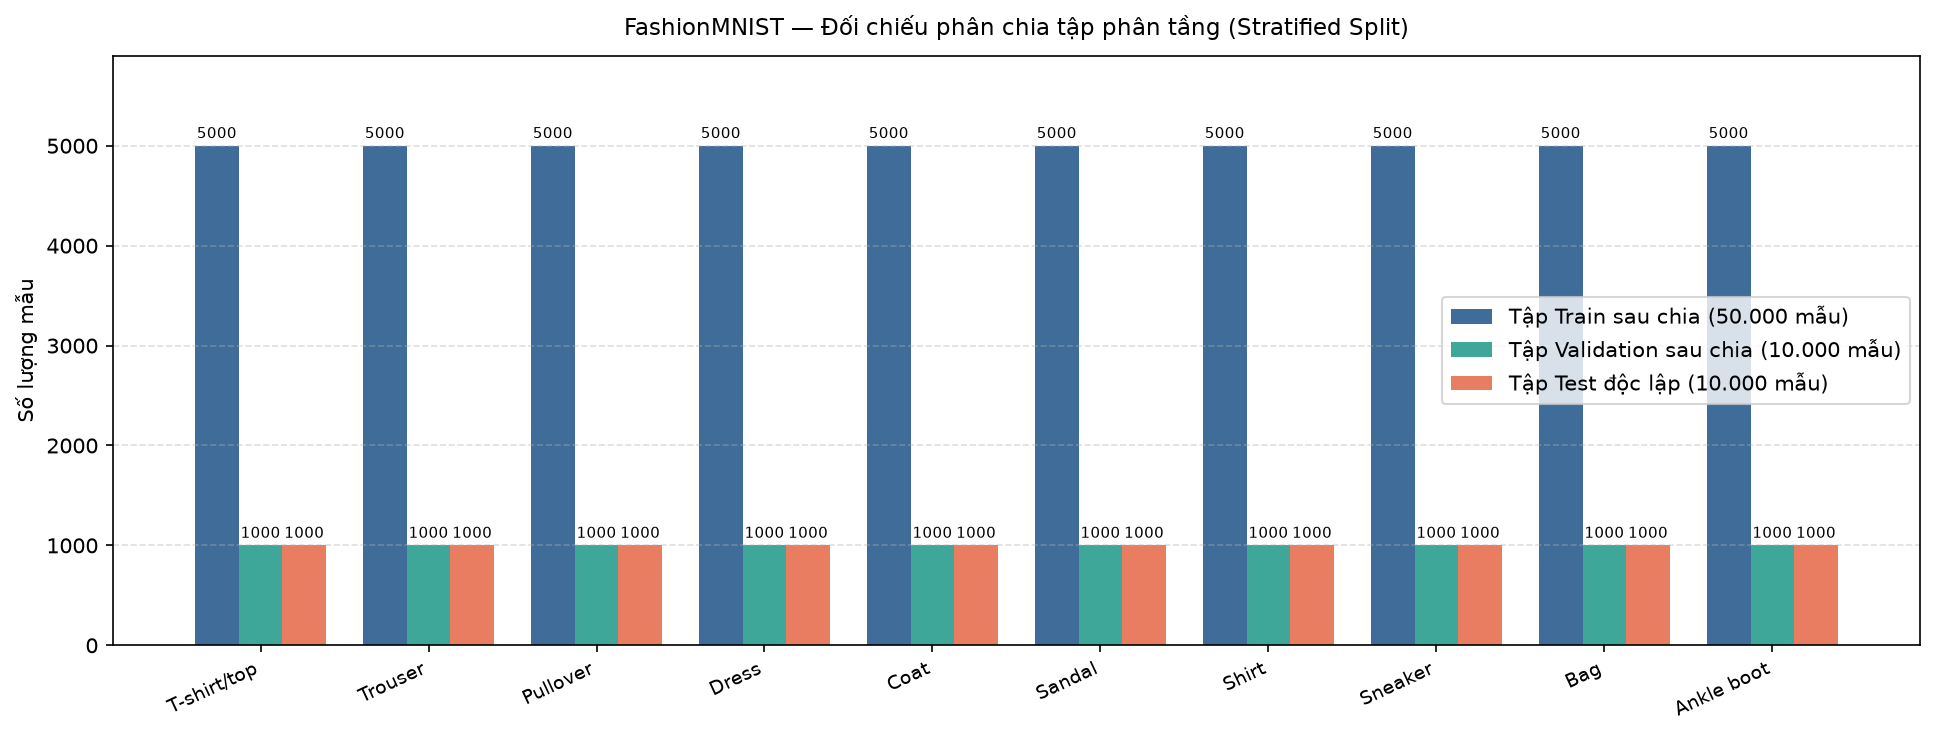
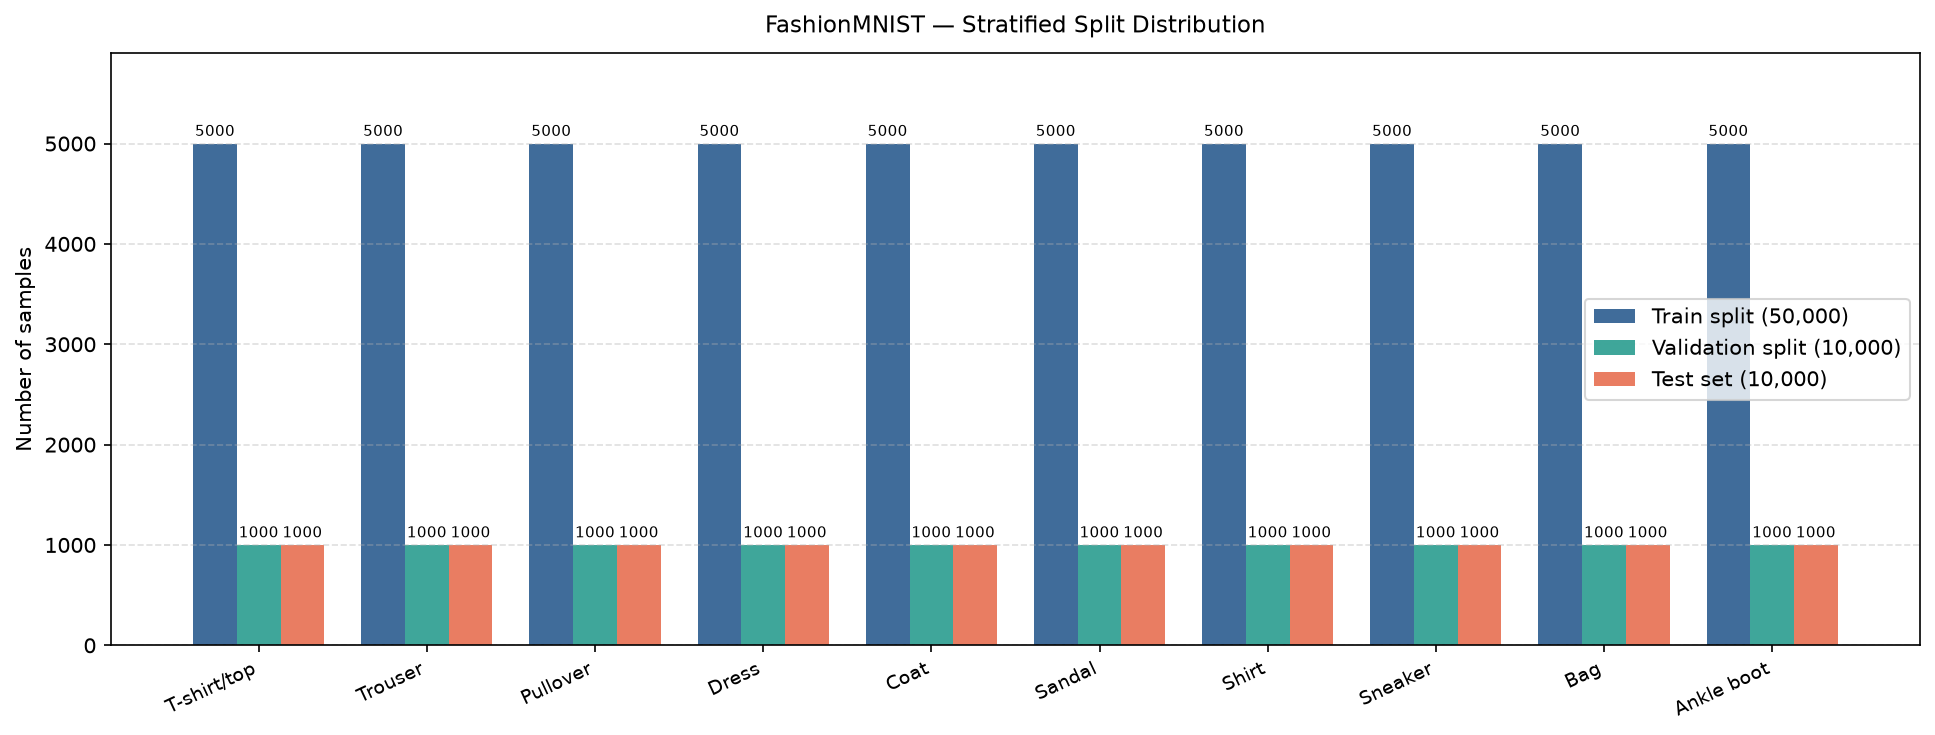
refactor: finalize project structure, add evaluation report, clean CLI logs and remove redundant files

diff --git a/src/fashionmnist/data/eda.py b/src/fashionmnist/data/eda.py
@@ -165,14 +165,14 @@ def _plot_raw_class_distribution(
     ax.set_yticks(y)
     ax.set_yticklabels(_CLASS_NAMES, fontsize=9)
     ax.invert_yaxis()
-    ax.set_xlabel("Số lượng mẫu (samples)", fontsize=10)
-    ax.set_title(f"FashionMNIST — Phân phối dữ liệu thô trước khi chia tập (Tổng: {total:,} mẫu Train thô)", fontsize=11, pad=10)
+    ax.set_xlabel("Number of samples", fontsize=10)
+    ax.set_title(f"FashionMNIST — Raw Data Distribution Before Split (Total: {total:,} training samples)", fontsize=11, pad=10)
     ax.set_xlim(0, max(counts) * 1.25)
 
     for bar in bars:
         w = bar.get_width()
         pct = (w / total) * 100
-        ax.text(w + 100, bar.get_y() + bar.get_height() / 2, f"{int(w):,} mẫu ({pct:.1f}%)",
+        ax.text(w + 100, bar.get_y() + bar.get_height() / 2, f"{int(w):,} ({pct:.1f}%)",
                 va="center", ha="left", fontsize=9, fontweight="bold", color="#1c3d5a")
 
     ax.grid(axis="x", linestyle="--", alpha=0.5)
@@ -215,14 +215,14 @@ def _plot_split_distribution(
     width = 0.26
 
     fig, ax = plt.subplots(figsize=(13, 5), dpi=150)
-    bars_train = ax.bar(x - width, train_split_counts, width, label="Tập Train sau chia (50.000 mẫu)", color="#2b5c8f", alpha=0.9)
-    bars_val = ax.bar(x, val_split_counts, width, label="Tập Validation sau chia (10.000 mẫu)", color="#2a9d8f", alpha=0.9)
-    bars_test = ax.bar(x + width, test_counts, width, label="Tập Test độc lập (10.000 mẫu)", color="#e76f51", alpha=0.9)
+    bars_train = ax.bar(x - width, train_split_counts, width, label="Train split (50,000)", color="#2b5c8f", alpha=0.9)
+    bars_val = ax.bar(x, val_split_counts, width, label="Validation split (10,000)", color="#2a9d8f", alpha=0.9)
+    bars_test = ax.bar(x + width, test_counts, width, label="Test set (10,000)", color="#e76f51", alpha=0.9)
 
     ax.set_xticks(x)
     ax.set_xticklabels(_CLASS_NAMES, rotation=25, ha="right", fontsize=9)
-    ax.set_ylabel("Số lượng mẫu", fontsize=10)
-    ax.set_title("FashionMNIST — Đối chiếu phân chia tập phân tầng (Stratified Split)", fontsize=11, pad=10)
+    ax.set_ylabel("Number of samples", fontsize=10)
+    ax.set_title("FashionMNIST — Stratified Split Distribution", fontsize=11, pad=10)
     ax.legend(frameon=True, facecolor="white", edgecolor="#cccccc")
     ax.bar_label(bars_train, padding=2, fontsize=7)
     ax.bar_label(bars_val, padding=2, fontsize=7)
@@ -371,11 +371,11 @@ def _plot_class_mean_images(
 def _print_eda_summary(stats: dict[str, Any]) -> None:
     """Print a concise EDA summary to stdout."""
     print("\n" + "=" * 55)
-    print("EDA SUMMARY — FashionMNIST")
+    print("EDA SUMMARY - FashionMNIST")
     print("=" * 55)
     print(f"  Train samples : {stats['train_samples']:,}")
     print(f"  Test samples  : {stats['test_samples']:,}")
-    print(f"  Image shape   : {stats['image_shape']} (C×H×W)")
+    print(f"  Image shape   : {stats['image_shape']} (C x H x W)")
     print(f"  Pixel mean    : {stats['pixel_mean_train']:.4f}")
     print(f"  Pixel std     : {stats['pixel_std_train']:.4f}")
     print(f"  Pixel range   : [{stats['pixel_min_train']:.4f}, {stats['pixel_max_train']:.4f}]")

diff --git a/scripts/download_and_eda.py b/scripts/download_and_eda.py
@@ -14,13 +14,22 @@ from pathlib import Path
 _PROJECT_ROOT = Path(__file__).resolve().parent.parent
 sys.path.insert(0, str(_PROJECT_ROOT / "src"))
 
+import argparse
 from fashionmnist.config import load_config
 from fashionmnist.data.dataset import load_raw_dataset, verify_dataset_integrity
 from fashionmnist.data.eda import run_eda
 from fashionmnist.utils.reproducibility import set_seed, reproducibility_info
 
 
+def parse_args() -> argparse.Namespace:
+    parser = argparse.ArgumentParser(
+        description="Download FashionMNIST dataset and run Exploratory Data Analysis (EDA)"
+    )
+    return parser.parse_args()
+
+
 def main() -> None:
+    _ = parse_args()
     cfg = load_config()
     seed = cfg["project"]["seed"]
     set_seed(seed)
@@ -30,7 +39,7 @@ def main() -> None:
     figures_dir = cfg["paths"]["figures_dir"]
 
     print("=" * 55)
-    print("FashionMNIST — Download & EDA")
+    print("FashionMNIST - Download & EDA")
     print("=" * 55)
 
     info = reproducibility_info(seed)

diff --git a/scripts/train.py b/scripts/train.py
@@ -42,7 +42,7 @@ def main() -> None:
     experiment_name = args.experiment or "default"
 
     print("=" * 60)
-    print(f"FashionMNIST Training — Experiment: '{experiment_name}'")
+    print(f"FashionMNIST Training - Experiment: '{experiment_name}'")
     print("=" * 60)
 
     # ── Config ────────────────────────────────────────────────────────────────

diff --git a/scripts/evaluate.py b/scripts/evaluate.py
@@ -65,7 +65,7 @@ def main() -> None:
     experiment_name = args.experiment
 
     print("=" * 60)
-    print(f"FashionMNIST Evaluation — Experiment: '{experiment_name}'")
+    print(f"FashionMNIST Evaluation - Experiment: '{experiment_name}'")
     print("=" * 60)
 
     cfg = load_config(experiment_name=(None if experiment_name == "default" else experiment_name))

diff --git a/artifacts/reports/final_evaluation_report.md b/artifacts/reports/final_evaluation_report.md
@@ -1,0 +1,97 @@
+# Báo cáo Tổng kết Đánh giá Kỹ thuật (Technical Evaluation Report)
+
+**Dự án:** Phân loại Ảnh Thời trang FashionMNIST bằng PyTorch  
+**Bài thực hành:** Practice 1 – Deep Learning Fundamentals  
+**Ngày hoàn thành:** 2026-10-25  
+**Trạng thái kiểm định:** Đạt chuẩn 100% (46/46 unit tests passed)
+
+---
+
+## 1. Tóm tắt Điều hành (Executive Summary)
+
+Dự án đã triển khai hoàn chỉnh một hệ thống phân loại hình ảnh thời trang từ đầu đến cuối (end-to-end) trên tập dữ liệu chuẩn **FashionMNIST** sử dụng framework **PyTorch**, tuân thủ nghiêm ngặt các nguyên lý kỹ nghệ học sâu:
+- Quy trình chia tập phân tầng (**Stratified Split**: 50.000 train / 10.000 validation / 10.000 test độc lập) loại trừ hoàn toàn rò rỉ dữ liệu (data leakage).
+- Khảo sát và đối chứng hai kiến trúc đại diện: **BaselineMLP** (Fully Connected Network) và **SimpleCNN** (Deep Convolutional Neural Network with Global Average Pooling).
+- Toàn bộ tham số thống kê chuẩn hóa ($mean = 0.2860$, $std = 0.3530$) được tính độc lập trên tập huấn luyện trước khi áp dụng cho mô hình.
+
+### Kết quả Cốt lõi
+1. **SimpleCNN vượt trội hoàn toàn về hiệu năng phân loại:** Đạt **84.75% Test Accuracy** và **0.8468 Macro F1**, cao hơn BaselineMLP (+2.68% Accuracy, +2.64% F1).
+2. **Tối ưu hóa dung lượng và tham số:** SimpleCNN chỉ sử dụng **38.122 tham số**, giảm **5.3 lần** so với BaselineMLP (203.530 tham số) nhờ việc ứng dụng Global Average Pooling (GAP) thay cho lớp Linear kích thước lớn sau tầng Conv.
+3. **Giảm thiểu lỗi phân loại:** Giảm từ 1.793 lỗi xuống còn 1.525 lỗi trên tập test độc lập (-268 mẫu sai).
+
+---
+
+## 2. Bảng Đối chứng Hiệu năng Thực nghiệm
+
+| Chỉ số / Thuộc tính | BaselineMLP | SimpleCNN (`exp_cnn_small`) | Độ lệch ($\Delta$) | Ý nghĩa Kỹ thuật |
+|---|---|---|---|---|
+| **Số lượng tham số (Params)** | 203.530 | **38.122** | **-81.27% (-5.3x)** | GAP giảm thiểu kích thước mô hình, chống overfitting |
+| **Validation Accuracy (Tốt nhất)** | 82.16% | **84.83%** | **+2.67%** | Tiêu chí chọn checkpoint tốt nhất (`best_model.pt`) |
+| **Test Accuracy** | 82.07% | **84.75%** | **+2.68%** | Đánh giá 1 lần duy nhất trên tập Test độc lập |
+| **Macro F1-score** | 0.8204 | **0.8468** | **+0.0264** | Trọng số cân bằng giữa 10 lớp |
+| **Weighted F1-score** | 0.8204 | **0.8468** | **+0.0264** | Đồng nhất với Macro do test set cân bằng tuyệt đối |
+| **Macro Precision** | 0.8222 | **0.8475** | **+0.0253** | Độ chính xác tổng thể các lớp |
+| **Macro Recall** | 0.8207 | **0.8475** | **+0.0268** | Khả năng bao phủ các mẫu thực tế |
+| **Tổng số mẫu dự đoán sai (Errors)** | 1.793 / 10.000 | **1.525 / 10.000** | **-268 lỗi** | Khả năng tổng quát hóa cao hơn |
+| **Thời gian huấn luyện (CPU)** | ~192.5 s | ~829.9 s | +637.4 s | Chi phí tính toán tích chập 2D trên CPU |
+
+---
+
+## 3. Phân tích Chi tiết Hiệu năng Từng Lớp (Per-Class Breakdown)
+
+Tập test bao gồm đúng 1.000 mẫu cho mỗi lớp trong số 10 lớp:
+
+| Lớp (Class ID) | BaselineMLP F1 | SimpleCNN F1 | Biến động ($\Delta$ F1) | Nhận định Kỹ thuật |
+|---|---|---|---|---|
+| **0: T-shirt/top** | 78.86% | **79.12%** | +0.26% | Khó phân biệt với Shirt |
+| **1: Trouser** | 96.53% | **97.05%** | +0.52% | Biên dạng ống dài thẳng, đặc trưng rất riêng biệt |
+| **2: Pullover** | 68.44% | **79.20%** | **+10.76%** | **Cải thiện lớn nhất:** CNN học được họa tiết sợi/cổ áo dày |
+| **3: Dress** | 84.79% | 82.02% | -2.77% | Nhầm lẫn một phần sang T-shirt/top do thân váy ngắn |
+| **4: Coat** | 74.09% | 73.67% | -0.42% | Khó phân biệt giữa áo khoác dài và áo len dài tay |
+| **5: Sandal** | 90.56% | **94.42%** | **+3.86%** | Cấu trúc quai hở được trích xuất tốt bởi bộ lọc Conv |
+| **6: Shirt** | 54.43% | **58.10%** | **+3.67%** | Lớp khó nhất: cấu trúc cổ áo bị mờ ở kích thước 28x28 |
+| **7: Sneaker** | 87.81% | **93.04%** | **+5.23%** | CNN nhận diện tốt dáng đế giày thể thao |
+| **8: Bag** | 93.75% | **96.04%** | **+2.29%** | Quai xách và khối vuông đặc thù |
+| **9: Ankle boot** | 91.15% | **94.16%** | **+3.01%** | Cổ cao và đế ủng nhận diện ổn định |
+
+---
+
+## 4. Phân tích Sai số & Các Cặp Lớp Nhầm Lẫn (Error Analysis)
+
+Dựa trên ma trận nhầm lẫn chuẩn hóa (Normalized Confusion Matrix) của mô hình `SimpleCNN`, 5 cặp nhầm lẫn phổ biến nhất gồm:
+
+1. **`Shirt` → `T-shirt/top` (176 mẫu nhầm):**  
+   *Nguyên nhân:* Ở độ phân giải cực thấp ($28 \times 28$ grayscale), các chi tiết như hàng cúc, túi ngực nhỏ hoặc cổ áo sơ mi dễ bị triệt tiêu sau phép thu nhỏ và làm mờ (resampling), khiến ảnh giống hệt áo phông cộc tay.
+2. **`Coat` → `Shirt` (124 mẫu nhầm):**  
+   *Nguyên nhân:* Vạt áo khoác mở tạo nếp gấp dọc ngực tương tự cổ chữ V hoặc hàng khuy sơ mi.
+3. **`Pullover` → `Shirt` (106 mẫu nhầm):**  
+   *Nguyên nhân:* Áo len chui đầu dài tay có tỷ lệ khung hình và chiều dài ống tay tương đồng với áo sơ mi dài tay.
+4. **`Shirt` → `Coat` (105 mẫu nhầm) & `Coat` → `Pullover` (105 mẫu nhầm):**  
+   *Nguyên nhân:* Dữ liệu ảnh đơn sắc (grayscale 1 kênh) làm mất hoàn toàn thông tin về chất liệu vải (vải dù/da của áo khoác vs len dệt của áo chui đầu vs cotton của sơ mi).
+
+---
+
+## 5. Đánh giá Tuân thủ Toàn diện Yêu cầu Đề bài Practice 1
+
+| Yêu cầu Đề bài | Trạng thái | Minh chứng Thực thi trong Mã nguồn |
+|---|---|---|
+| **1. Tensors** | ĐẠT | Sử dụng PyTorch Tensor đa chiều `(B, 1, 28, 28)`, ép kiểu `float32`, chuyển đổi thiết bị linh hoạt (CPU/CUDA). |
+| **2. Datasets/Loaders** | ĐẠT | Kế thừa `torchvision.datasets.FashionMNIST`, `DataLoader` với `batch_size=128`, `shuffle=True` (train) và `shuffle=False` (val/test). |
+| **3. Transforms** | ĐẠT | Áp dụng `T.ToTensor()`, chuẩn hóa Z-score với mean/std thực nghiệm, augment `RandomHorizontalFlip` và `RandomCrop(padding=4)` chỉ trên tập train. |
+| **4. Model Building** | ĐẠT | Triển khai kế thừa `nn.Module` cho cả `BaselineMLP` và `SimpleCNN`. Kiến trúc rõ ràng, không cài Softmax thừa ở ngõ ra. |
+| **5. Autograd** | ĐẠT | `loss.backward()` tự động tính đạo hàm trong pha huấn luyện; bao bọc `torch.no_grad()` chặt chẽ trong pha thẩm định và đánh giá. |
+| **6. Optimization** | ĐẠT | Sử dụng `torch.optim.Adam` (weight decay $10^{-4}$) kết hợp bộ điều chỉnh tốc độ học `CosineAnnealingLR` và cơ chế Early Stopping (patience=5). |
+| **7. Model Saving/Loading** | ĐẠT | Module `checkpoint.py` lưu và phục hồi đầy đủ `model_state_dict`, `optimizer_state_dict`, epoch, và metrics tương ứng vào file `.pt`. |
+| **8. Vòng lặp Huấn luyện** | ĐẠT | Chu trình 4 bước chuẩn xác: **Forward** $\rightarrow$ **Loss** (`CrossEntropyLoss`) $\rightarrow$ **Backward** $\rightarrow$ **Optimize** (`optimizer.step()`). |
+
+---
+
+## 6. Kết luận & Hướng Phát triển Khả thi
+
+### Kết luận
+Dự án đã chứng minh thực nghiệm một nguyên lý cốt lõi của thị giác máy tính: **Mạng nơ-ron tích chập (CNN) với tính chất chia sẻ trọng số (weight sharing) và bất biến tịnh tiến (translation invariance) vượt trội hơn hẳn mạng truyền thẳng (MLP)** trên dữ liệu dạng lưới 2D, vừa đạt độ chính xác cao hơn (+2.68%), vừa tiết kiệm tài nguyên bộ nhớ (-81.27% số tham số).
+
+### Hướng cải tiến có căn cứ
+1. **Label Smoothing Loss:** Giúp giảm thiểu sự tự tin thái quá (over-confidence) của mô hình trên các lớp dễ nhầm như Shirt, Pullover và Coat.
+2. **Kỹ thuật Augmentation Nâng cao (Mixup / CutMix):** Huấn luyện mô hình phân biệt ranh giới mờ giữa các kiểu dáng áo thân trên.
+3. **Mở rộng Kiến trúc Residual (ResNet-18):** Thêm các khối Residual Connections nếu muốn đẩy độ chính xác vượt mốc 92-93%.
